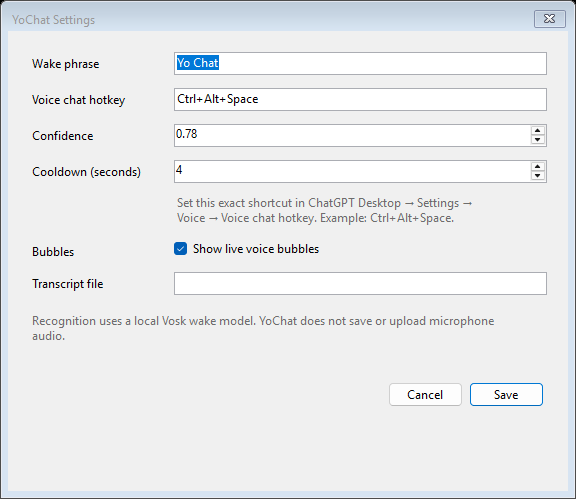
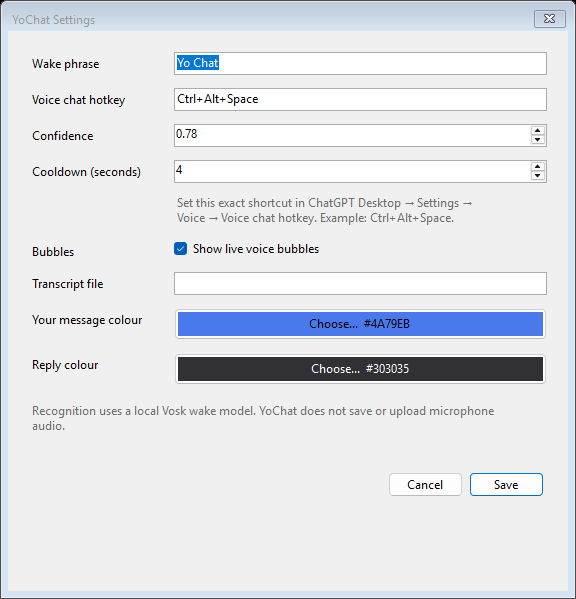
Add configurable message colours with readable text and live updates

diff --git a/src/YoChat/Bubbles/BubbleView.cs b/src/YoChat/Bubbles/BubbleView.cs
@@ -9,7 +9,7 @@ using Size=System.Windows.Size;
 using Color=System.Windows.Media.Color;
 using ColorConverter=System.Windows.Media.ColorConverter;
 
-record ViewSnapshot(PillPosition Pill,VoiceRow[] Rows,double Clearance,long PositionAt,long TranscriptAt);
+record ViewSnapshot(PillPosition Pill,VoiceRow[] Rows,double Clearance,long PositionAt,long TranscriptAt,string UserColor="#4A79EB",string AssistantColor="#303035");
 
 sealed class BubbleView : Window {
  [DllImport("user32.dll")] static extern bool SetWindowPos(IntPtr h,IntPtr after,int x,int y,int width,int height,uint flags);
@@ -19,6 +19,7 @@ sealed class BubbleView : Window {
  readonly C.StackPanel stack=new(){Margin=new Thickness(10,8,10,8)};
  readonly Func<ViewSnapshot> read;
  readonly DragFollower drag=new();
+ string userColor="#4A79EB",assistantColor="#303035";
  VoiceRow[] previous=[];double budget=-1;IntPtr handle;bool closing;
  int lastX=int.MinValue,lastY=int.MinValue;
  readonly System.Windows.Threading.DispatcherTimer timer=new(System.Windows.Threading.DispatcherPriority.Render){Interval=TimeSpan.FromMilliseconds(16)};
@@ -46,6 +47,7 @@ sealed class BubbleView : Window {
   var screen=System.Windows.Forms.Screen.FromPoint(new System.Drawing.Point((int)p.CenterX,(int)p.Top)).WorkingArea;
   double available=Math.Min(480,(p.Top-clearance-screen.Top)/sy-8);
   if(available<61){if(IsVisible)Hide();return;}
+  if(userColor!=state.UserColor||assistantColor!=state.AssistantColor){userColor=state.UserColor;assistantColor=state.AssistantColor;budget=-1;}
   if(!state.Rows.SequenceEqual(previous)||Math.Abs(available-budget)>1){RenderRows(state.Rows,available);previous=state.Rows;budget=available;}
   int x=(int)Math.Round(p.CenterX-Width*sx/2),y=(int)Math.Round(p.Top-clearance-stack.DesiredSize.Height*sy);
   if(!IsVisible)Show();
@@ -63,11 +65,13 @@ sealed class BubbleView : Window {
   stack.Children.Clear();foreach(var b in bubbles)stack.Children.Add(b);DrawnRows=bubbles.Count;
   stack.Measure(new Size(320,double.PositiveInfinity));stack.Arrange(new Rect(0,0,320,stack.DesiredSize.Height));UpdateLayout();
  }
- static C.Border Bubble(VoiceRow row,bool full){
+ C.Border Bubble(VoiceRow row,bool full){
   bool user=row.Speaker=="user";
-  var b=new C.Border{MaxWidth=278,Padding=new Thickness(14,8,14,8),Margin=new Thickness(0,0,0,6),HorizontalAlignment=user?System.Windows.HorizontalAlignment.Right:System.Windows.HorizontalAlignment.Left,CornerRadius=new CornerRadius(19),Background=new SolidColorBrush((Color)ColorConverter.ConvertFromString(user?"#4A79EB":"#303035")),UseLayoutRounding=true,SnapsToDevicePixels=true};
-  if(full){var button=new C.Button{Content="Read full message",FontSize=14,Foreground=Brushes.White,Background=Brushes.Transparent,BorderThickness=new Thickness(0),Padding=new Thickness(0)};button.Click+=(_,_)=>ShowFull(row.Text);b.Child=button;}
-  else b.Child=new C.TextBlock{Text=row.Text,FontSize=15,LineHeight=21,LineStackingStrategy=LineStackingStrategy.BlockLineHeight,TextAlignment=TextAlignment.Left,VerticalAlignment=VerticalAlignment.Center,Foreground=Brushes.White,TextWrapping=TextWrapping.Wrap};
+  var b=new C.Border{MaxWidth=278,Padding=new Thickness(14,8,14,8),Margin=new Thickness(0,0,0,6),HorizontalAlignment=user?System.Windows.HorizontalAlignment.Right:System.Windows.HorizontalAlignment.Left,CornerRadius=new CornerRadius(19),Background=new SolidColorBrush((Color)ColorConverter.ConvertFromString(user?userColor:assistantColor)),UseLayoutRounding=true,SnapsToDevicePixels=true};
+  var color=((SolidColorBrush)b.Background).Color;
+  var ink=(.2126*color.ScR+.7152*color.ScG+.0722*color.ScB)>.179?Brushes.Black:Brushes.White;
+  if(full){var button=new C.Button{Content="Read full message",FontSize=14,Foreground=ink,Background=Brushes.Transparent,BorderThickness=new Thickness(0),Padding=new Thickness(0)};button.Click+=(_,_)=>ShowFull(row.Text);b.Child=button;}
+  else b.Child=new C.TextBlock{Text=row.Text,FontSize=15,LineHeight=21,LineStackingStrategy=LineStackingStrategy.BlockLineHeight,TextAlignment=TextAlignment.Left,VerticalAlignment=VerticalAlignment.Center,Foreground=ink,TextWrapping=TextWrapping.Wrap};
   return b;
  }
  static void ShowFull(string text){var w=new Window{Title="Full voice message",Width=520,Height=600,Topmost=true,Content=new C.TextBox{Text=text,IsReadOnly=true,TextWrapping=TextWrapping.Wrap,VerticalScrollBarVisibility=C.ScrollBarVisibility.Auto,FontSize=15,Padding=new Thickness(20)}};w.Show();}

diff --git a/experimental/yochat_portable/ui.py b/experimental/yochat_portable/ui.py
@@ -10,7 +10,7 @@ from PySide6.QtCore import QLockFile, QPoint, QRectF, Qt, QTimer
 from PySide6.QtGui import QColor, QFont, QFontMetrics, QIcon, QPainter, QPainterPath, QPixmap
 from PySide6.QtWidgets import (QApplication, QCheckBox, QDialog, QDialogButtonBox,
     QDoubleSpinBox, QFormLayout, QLabel, QLineEdit, QMenu, QMessageBox,
-    QSpinBox, QSystemTrayIcon, QWidget)
+    QSpinBox, QSystemTrayIcon, QWidget, QColorDialog, QPushButton)
 
 from .core import Settings, data_dir, placement
 from .engine import Engine
@@ -24,6 +24,7 @@ class Bubbles(QWidget):
         self.setAttribute(Qt.WidgetAttribute.WA_ShowWithoutActivating)
         self.setWindowTitle('YoChat Experimental Bubbles')
         self.setFont(QFont('Helvetica Neue' if sys.platform == 'darwin' else 'Noto Sans', 11))
+        self.user_color = "#4A79EB"; self.assistant_color = "#303035"
         self.drawn = []
         self.last_rows = None
         self.last_budget = None
@@ -58,10 +59,13 @@ class Bubbles(QWidget):
         painter.setRenderHint(QPainter.RenderHint.Antialiasing)
         painter.setPen(Qt.PenStyle.NoPen)
         for rect, role, text, shown, full in self.drawn:
-            painter.setBrush(QColor('#4A79EB' if role == 'user' else '#303035'))
+            color = QColor(self.user_color if role == 'user' else self.assistant_color)
+            painter.setBrush(color)
             painter.setPen(Qt.PenStyle.NoPen)
             painter.drawRoundedRect(rect, 19, 19)
-            painter.setPen(QColor('white'))
+            channels = [c / 12.92 if c <= .04045 else ((c + .055) / 1.055) ** 2.4 for c in (color.redF(), color.greenF(), color.blueF())]
+            luminance = sum(c * w for c, w in zip(channels, (.2126, .7152, .0722)))
+            painter.setPen(QColor('black' if luminance > .179 else 'white'))
             painter.drawText(rect.adjusted(14, 8, -14, -8), Qt.TextFlag.TextWordWrap | Qt.AlignmentFlag.AlignVCenter, shown)
 
     def mousePressEvent(self, event):
@@ -94,15 +98,25 @@ class SettingsDialog(QDialog):
         layout.addRow('Transcript file', self.transcript)
         self.model = QLineEdit(config.model); self.model.setPlaceholderText('Bundled English model')
         layout.addRow('Vosk model folder', self.model)
+        self.user_color = QPushButton(config.user_color)
+        self.assistant_color = QPushButton(config.assistant_color)
+        for label, button in [('Your message colour', self.user_color), ('Reply colour', self.assistant_color)]:
+            layout.addRow(label, button)
+            button.clicked.connect(lambda checked=False, b=button: self.choose_color(b))
         self.error = QLabel(); self.error.setWordWrap(True); layout.addRow(self.error)
         buttons = QDialogButtonBox(QDialogButtonBox.StandardButton.Save | QDialogButtonBox.StandardButton.Cancel)
         buttons.accepted.connect(self.check); buttons.rejected.connect(self.reject); layout.addRow(buttons)
         self.result_settings = None
 
+    def choose_color(self, button):
+        color = QColorDialog.getColor(QColor(button.text()), self, 'Message colour')
+        if color.isValid():
+            button.setText(color.name().upper())
+
     def check(self):
         try:
             self.result_settings = Settings(self.phrase.text(), self.hotkey.text(), self.confidence.value(),
-                self.cooldown.value(), self.gap.value(), self.bubbles.isChecked(), self.transcript.text(), self.model.text()).validate()
+                self.cooldown.value(), self.gap.value(), self.bubbles.isChecked(), self.transcript.text(), self.model.text(), self.user_color.text(), self.assistant_color.text()).validate()
             self.accept()
         except ValueError as error:
             self.error.setText(str(error))
@@ -177,6 +191,9 @@ class Controller:
             self.view.hide(); return
         area = screen.availableGeometry()
         budget = int(min(480, pill['top'] - self.config.gap - area.top()))
+        if (self.view.user_color, self.view.assistant_color) != (self.config.user_color, self.config.assistant_color):
+            self.view.user_color = self.config.user_color; self.view.assistant_color = self.config.assistant_color
+            self.view.update()
         self.view.render_rows(state['rows'], budget)
         target = placement(pill['x'], pill['top'], self.view.width(), self.view.height(), self.config.gap,
                            (area.x(), area.y(), area.width(), area.height()))

diff --git a/src/YoChat/UI/SettingsForm.cs b/src/YoChat/UI/SettingsForm.cs
@@ -4,6 +4,19 @@ namespace YoChat.UI;
 
 public sealed class SettingsForm : Form
 {
+    private readonly Button _userColor = new() { AutoSize = true, MaximumSize = new Size(0, 32) };
+    private readonly Button _assistantColor = new() { AutoSize = true, MaximumSize = new Size(0, 32) };
+    private static void SetColor(Button button, string value) {
+        button.Tag = value; button.Text = "Choose...  " + value;
+        button.BackColor = ColorTranslator.FromHtml(value);
+        button.ForeColor = button.BackColor.GetBrightness() > .55f ? Color.Black : Color.White;
+        button.UseVisualStyleBackColor = false;
+    }
+    private void ChooseColor(Button button) {
+        using var picker = new ColorDialog { Color = button.BackColor, FullOpen = true };
+        if (picker.ShowDialog(this) == DialogResult.OK)
+            SetColor(button, $"#{picker.Color.R:X2}{picker.Color.G:X2}{picker.Color.B:X2}");
+    }
     private readonly TextBox _wakePhrase = new();
     private readonly TextBox _hotkey = new();
     private readonly NumericUpDown _confidence = new();
@@ -20,7 +33,7 @@ public sealed class SettingsForm : Form
         MaximizeBox = false;
         MinimizeBox = false;
         ShowInTaskbar = false;
-        ClientSize = new Size(560, 460);
+        ClientSize = new Size(560, 560);
         Font = new Font("Segoe UI", 9F);
 
         _wakePhrase.Text = settings.WakePhrase;
@@ -37,6 +50,11 @@ public sealed class SettingsForm : Form
         _cooldown.Maximum = 30;
         _cooldown.Value = settings.CooldownSeconds;
 
+        settings = settings.Normalized();
+        SetColor(_userColor, settings.UserBubbleColor);
+        SetColor(_assistantColor, settings.AssistantBubbleColor);
+        _userColor.Click += (_, _) => ChooseColor(_userColor);
+        _assistantColor.Click += (_, _) => ChooseColor(_assistantColor);
         BuildLayout();
     }
 
@@ -49,8 +67,9 @@ public sealed class SettingsForm : Form
             Dock = DockStyle.Fill,
             Padding = new Padding(18),
             ColumnCount = 2,
-            RowCount = 10
+            RowCount = 12
         };
+        for (int row = 0; row < 12; row++) layout.RowStyles.Add(new RowStyle(SizeType.AutoSize));
         layout.ColumnStyles.Add(new ColumnStyle(SizeType.Absolute, 145));
         layout.ColumnStyles.Add(new ColumnStyle(SizeType.Percent, 100));
 
@@ -79,13 +98,15 @@ public sealed class SettingsForm : Form
         };
         AddRow(layout, 5, "Bubbles", _bubbles);
         AddRow(layout, 6, "Transcript file", _transcriptPath);
-        layout.Controls.Add(privacy, 0, 7);
+        AddRow(layout, 7, "Your message colour", _userColor);
+        AddRow(layout, 8, "Reply colour", _assistantColor);
+        layout.Controls.Add(privacy, 0, 9);
         layout.SetColumnSpan(privacy, 2);
 
         _validation.AutoSize = true;
         _validation.ForeColor = Color.Firebrick;
         _validation.Margin = new Padding(3, 2, 3, 8);
-        layout.Controls.Add(_validation, 0, 8);
+        layout.Controls.Add(_validation, 0, 10);
         layout.SetColumnSpan(_validation, 2);
 
         var save = new Button { Text = "Save", AutoSize = true };
@@ -100,7 +121,7 @@ public sealed class SettingsForm : Form
         };
         buttons.Controls.Add(save);
         buttons.Controls.Add(cancel);
-        layout.Controls.Add(buttons, 0, 9);
+        layout.Controls.Add(buttons, 0, 11);
         layout.SetColumnSpan(buttons, 2);
 
         AcceptButton = save;
@@ -133,6 +154,8 @@ public sealed class SettingsForm : Form
 
         Result = new AppSettings
         {
+            UserBubbleColor = (string)_userColor.Tag!,
+            AssistantBubbleColor = (string)_assistantColor.Tag!,
             BubblesEnabled = _bubbles.Checked,
             TranscriptPath = _transcriptPath.Text.Trim(),
             WakePhrase = phrase,

diff --git a/tests/YoChat.Tests/Program.cs b/tests/YoChat.Tests/Program.cs
@@ -29,6 +29,7 @@ var tests = new (string Name, Action Run)[]
     ("Hotkey parsing and canonical format", HotkeyParsing),
     ("Hotkey validation", HotkeyValidation),
     ("Settings normalization", SettingsNormalization),
+    ("Custom colour persistence and validation", ColourSettings),
     ("Handoff when ChatGPT is idle", HandoffWhenChatGptIsIdle),
     ("Suppress handoff while ChatGPT captures", SuppressHandoffWhileChatGptCaptures),
     ("Suppress handoff when capture state is unknown", SuppressHandoffWhenStateIsUnknown),
@@ -167,4 +168,12 @@ static void TranscriptPaths()
     var configured = Path.Combine(Path.GetTempPath(), "custom-voice.json");
     Assert(YoChat.BubbleEngine.ResolveTranscriptPath(configured) == Path.GetFullPath(configured), "Explicit source must take precedence.");
     Assert(Path.GetFileName(YoChat.BubbleEngine.ResolveTranscriptPath("")) == "realtime-voice-continuity.json", "Default source must be the direct transcript.");
+}
+
+static void ColourSettings() {
+    var config = new AppSettings { UserBubbleColor="#abcdef", AssistantBubbleColor="#FFFFFF" }.Normalized();
+    var restored = System.Text.Json.JsonSerializer.Deserialize<AppSettings>(System.Text.Json.JsonSerializer.Serialize(config.Copy()))!;
+    Assert(restored.UserBubbleColor=="#ABCDEF" && restored.AssistantBubbleColor=="#FFFFFF", "Custom colours must survive copying and persistence.");
+    Assert(new AppSettings { UserBubbleColor="invalid", AssistantBubbleColor=null! }.Normalized().UserBubbleColor=="#4A79EB", "Invalid colours must fall back safely.");
+    Assert(new AppSettings { AssistantBubbleColor=null! }.Normalized().AssistantBubbleColor=="#303035", "Null colour must fall back safely.");
 }

diff --git a/src/YoChat/Bubbles/BubbleEngine.cs b/src/YoChat/Bubbles/BubbleEngine.cs
@@ -16,6 +16,7 @@ sealed class BubbleEngine : IDisposable
     long positionAt, transcriptAt;
     double clearance = 28;
     bool enabled = true;
+    string userColor="#4A79EB", assistantColor="#303035";
     int generation;
     string status = "Bubbles: waiting for voice";
     public string Status { get { lock (gate) return status; } }
@@ -49,7 +50,7 @@ sealed class BubbleEngine : IDisposable
     bool Wait(int milliseconds) => cancellation.Token.WaitHandle.WaitOne(milliseconds);
     ViewSnapshot Read()
     {
-        lock (gate) return new(enabled ? pill : new(false, 0, 0), rows, clearance, positionAt, transcriptAt);
+        lock (gate) return new(enabled ? pill : new(false, 0, 0), rows, clearance, positionAt, transcriptAt, userColor, assistantColor);
     }
     public void BeginCall()
     {
@@ -86,7 +87,7 @@ sealed class BubbleEngine : IDisposable
             {
                 var config = settings(); var path = ResolveTranscriptPath(config.TranscriptPath);
                 var currentGeneration = Volatile.Read(ref generation);
-                lock (gate) enabled = config.BubblesEnabled;
+                lock (gate) { enabled = config.BubblesEnabled; userColor = AppSettings.NormalizeColor(config.UserBubbleColor,"#4A79EB"); assistantColor = AppSettings.NormalizeColor(config.AssistantBubbleColor,"#303035"); }
                 if (previousGeneration != currentGeneration || previousPath != path || !config.BubblesEnabled)
                 {
                     reader.Reset(); previousGeneration = currentGeneration; previousPath = path;

diff --git a/src/YoChat/Core/AppSettings.cs b/src/YoChat/Core/AppSettings.cs
@@ -2,6 +2,10 @@ namespace YoChat.Core;
 
 public sealed class AppSettings
 {
+    public string UserBubbleColor { get; set; } = "#4A79EB";
+    public string AssistantBubbleColor { get; set; } = "#303035";
+    public static string NormalizeColor(string? value, string fallback) =>
+        value is not null && System.Text.RegularExpressions.Regex.IsMatch(value, "^#[0-9a-fA-F]{6}$") ? value.ToUpperInvariant() : fallback;
     public const string DefaultWakePhrase = "Yo Chat";
     public bool BubblesEnabled { get; set; } = true;
     public string TranscriptPath { get; set; } = "";
@@ -23,6 +27,8 @@ public sealed class AppSettings
 
         return new AppSettings
         {
+            UserBubbleColor = NormalizeColor(UserBubbleColor, "#4A79EB"),
+            AssistantBubbleColor = NormalizeColor(AssistantBubbleColor, "#303035"),
             BubblesEnabled = BubblesEnabled,
             TranscriptPath = TranscriptPath?.Trim() ?? "",
             WakePhrase = WakePhraseGate.Normalize(WakePhrase) is { Length: > 0 } phrase
@@ -36,6 +42,8 @@ public sealed class AppSettings
 
     public AppSettings Copy() => new()
     {
+        UserBubbleColor = UserBubbleColor,
+        AssistantBubbleColor = AssistantBubbleColor,
         BubblesEnabled = BubblesEnabled,
         TranscriptPath = TranscriptPath,
         WakePhrase = WakePhrase,

diff --git a/experimental/yochat_portable/core.py b/experimental/yochat_portable/core.py
@@ -1,6 +1,7 @@
 """Pure models: no microphone, native UI, or network access."""
 import json
 import math
+import re
 import os
 import sys
 from dataclasses import asdict, dataclass
@@ -40,8 +41,13 @@ class Settings:
     bubbles: bool = True
     transcript: str = ''
     model: str = ''
+    user_color: str = '#4A79EB'
+    assistant_color: str = '#303035'
 
     def validate(self):
+        for name in ('user_color', 'assistant_color'):
+            if not isinstance(getattr(self, name), str) or not re.fullmatch(r'#[0-9a-fA-F]{6}', getattr(self, name)):
+                raise ValueError('Choose a message colour in #RRGGBB format.')
         for name in ('phrase', 'hotkey', 'transcript', 'model'):
             if not isinstance(getattr(self, name), str):
                 raise ValueError(f'{name} must be text.')

diff --git a/experimental/tests/test_core.py b/experimental/tests/test_core.py
@@ -10,6 +10,15 @@ def snapshot(*rows):
 
 
 class CoreTests(unittest.TestCase):
+    def test_custom_colours(self):
+        with tempfile.TemporaryDirectory() as folder:
+            path = Path(folder) / 'settings.json'
+            Settings(user_color='#FFFFFF', assistant_color='#123456').save(path)
+            restored = Settings.load(path)
+            self.assertEqual((restored.user_color, restored.assistant_color), ('#FFFFFF', '#123456'))
+        with self.assertRaises(ValueError):
+            Settings(user_color='invalid').validate()
+
     def test_baseline_and_duplicate_updates(self):
         r = Transcript()
         r.update(snapshot(('user', 'Old')))

diff --git a/README.md b/README.md
@@ -344,3 +344,7 @@ are included under [`licenses/`](licenses/).
 
 YoChat is an independent, experimental companion. It is not affiliated with or
 endorsed by OpenAI.
+
+### Message colours
+
+Open **Settings** from the YoChat tray icon (menu bar on macOS). Choose **Your message colour** and **Reply colour**, then **Save**. Colours are saved and apply to live bubbles immediately; text switches between black and white for readability. Defaults: `#4A79EB` and `#303035`. Available on Windows and experimental macOS/Linux.
